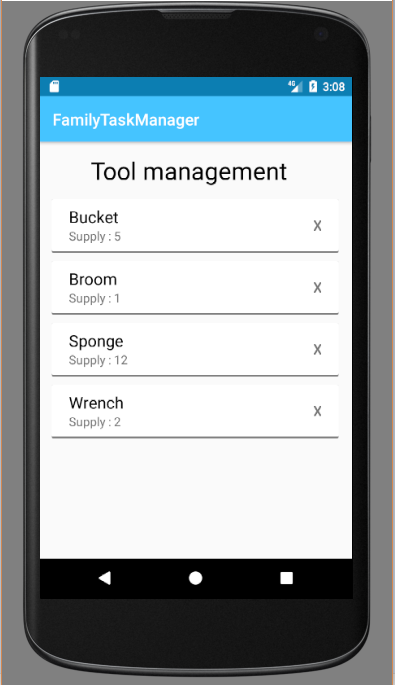
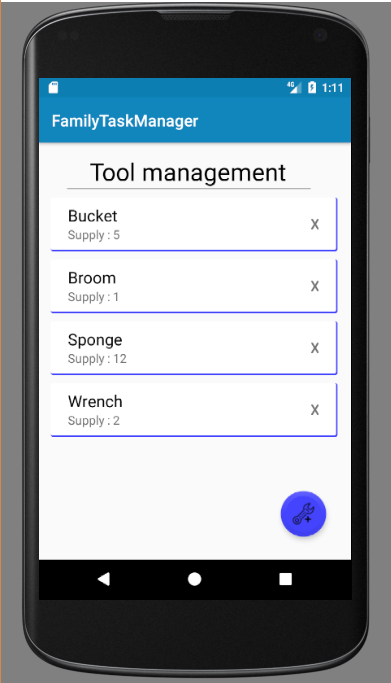
UIs

diff --git a/FamilyTaskManager/app/src/main/java/familytaskmanager/microso/com/familytaskmanager/ToolActivity.java b/FamilyTaskManager/app/src/main/java/familytaskmanager/microso/com/familytaskmanager/ToolActivity.java
@@ -10,7 +10,9 @@ import android.view.View;
 import android.widget.AdapterView;
 import android.widget.Button;
 import android.widget.EditText;
+import android.widget.ImageView;
 import android.widget.ListView;
+import android.widget.TextView;
 import android.widget.Toast;
 
 import java.util.ArrayList;
@@ -31,7 +33,6 @@ public class ToolActivity extends AppCompatActivity {
         tools.add(new Tool(3, "Sponge", 12));
         tools.add(new Tool(4, "Wrench", 2));
 
-
         ToolListAdapter adapter = new ToolListAdapter(this, tools);
         listView.setAdapter(adapter);
 
@@ -42,10 +43,19 @@ public class ToolActivity extends AppCompatActivity {
                 AlertDialog.Builder mBuilder = new AlertDialog.Builder(ToolActivity.this);
                 View mView = getLayoutInflater().inflate(R.layout.tool_add_dialog, null);
                 mBuilder.setView(mView);
-
                 final AlertDialog dialog = mBuilder.create();
+
+                /* PERSONALIZATION OF THE DIALOG (REUSABILITY) */
                 final EditText name_edit = (EditText) mView.findViewById(R.id.tool_name);
+                name_edit.setHint("Tool name"); // personalize the hint in the edittext
                 final EditText supply_edit = (EditText) mView.findViewById(R.id.tool_supply);
+                supply_edit.setHint("Tool supply"); // personalize the hint in the edittext
+                final ImageView image = (ImageView) mView.findViewById(R.id.add_pic);
+                image.setImageResource(R.drawable.toolsadd_bg); // personalize the picture at the top
+                final TextView add_title = (TextView) mView.findViewById(R.id.add_title);
+                add_title.setText("ADD TOOL MANAGER"); // personalize the title of your dialog
+                /* END OF PERSONALIZATION */
+
                 Button cancel_btn = (Button) mView.findViewById(R.id.cancel_btn);
                 cancel_btn.setOnClickListener(new View.OnClickListener() {
                     @Override
@@ -59,11 +69,14 @@ public class ToolActivity extends AppCompatActivity {
                     @Override
                     public void onClick(View v) {
                         if(!name_edit.getText().toString().isEmpty() && !supply_edit.getText().toString().isEmpty()) {
-                            Toast.makeText(ToolActivity.this, "Adding completed.", Toast.LENGTH_SHORT).show();
+                            Toast.makeText(ToolActivity.this, name_edit.getText() + " has been added to your tools.", Toast.LENGTH_SHORT).show();
+                            /*tools.add(new Tool(5, name_edit.getText().toString(), Integer.parseInt(supply_edit.getText().toString())));
+                            finish();
+                            startActivity(getIntent());*/
+                            dialog.dismiss();
                         } else {
                             Toast.makeText(ToolActivity.this, "You need to fill both fields..", Toast.LENGTH_SHORT).show();
                         }
-                        dialog.dismiss();
                     }
                 });
                 dialog.show();

diff --git a/FamilyTaskManager/app/src/main/java/familytaskmanager/microso/com/familytaskmanager/ToolListAdapter.java b/FamilyTaskManager/app/src/main/java/familytaskmanager/microso/com/familytaskmanager/ToolListAdapter.java
@@ -37,10 +37,10 @@ public class ToolListAdapter extends ArrayAdapter<Tool> {
         LayoutInflater inflater = (LayoutInflater) context.getSystemService(Context.LAYOUT_INFLATER_SERVICE);
         View rowView = inflater.inflate(R.layout.tool_list_item, parent, false);
         TextView nameView = (TextView) rowView.findViewById(R.id.toolListItemName);
-        TextView supplyView = (TextView) rowView.findViewById(R.id.toolListItemSupply);
+        TextView supplyView = (TextView) rowView.findViewById(R.id.toolListItemNbr);
         Button btnDelete = (Button) rowView.findViewById(R.id.delete);
         nameView.setText(selected_tool.getName());
-        supplyView.setText(supplyView.getText() + Integer.toString(selected_tool.getSupply())); // Look out for the text increment.
+        supplyView.setText(Integer.toString(selected_tool.getSupply()));
         btnDelete.setOnClickListener(new View.OnClickListener() {
             public void onClick(View v) {
                 /*
@@ -60,6 +60,7 @@ public class ToolListAdapter extends ArrayAdapter<Tool> {
         builder.setPositiveButton(android.R.string.yes, new DialogInterface.OnClickListener() {
             public void onClick(DialogInterface dialog, int id) {
                 //TODO
+                Toast.makeText(context, "This tool has been deleted.", Toast.LENGTH_SHORT).show();
                 dialog.dismiss();
             }
         });

diff --git a/FamilyTaskManager/app/src/main/java/familytaskmanager/microso/com/familytaskmanager/PeopleListAdapter.java b/FamilyTaskManager/app/src/main/java/familytaskmanager/microso/com/familytaskmanager/PeopleListAdapter.java
@@ -40,5 +40,7 @@ public class PeopleListAdapter extends ArrayAdapter{
         peopleName.setText(people.getFname()+" "+people.getLname());
         peopleNumTasks.setText("Allocated tasks: "+people.getTasks().size());
         peopleIcon.setImageResource(people.getProfilePicId());
+
+        return rowView;
     }
 }
